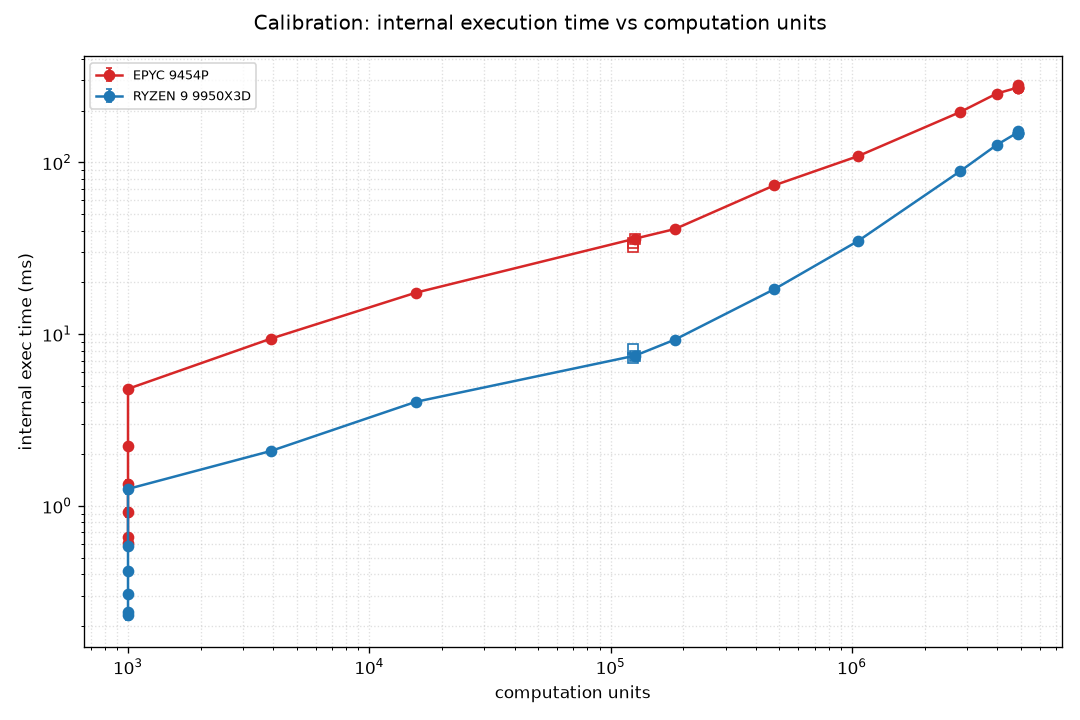
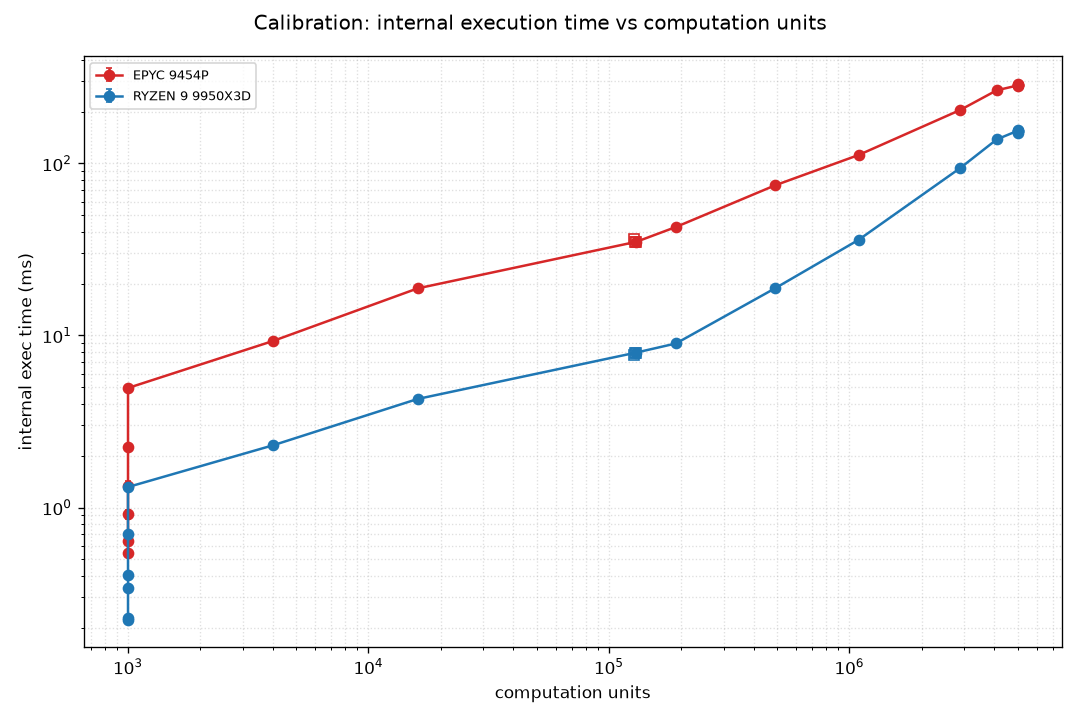
feat(h2): rewrite calibration with true per-transaction CU + add total tx count sizing

diff --git a/stress-attestation-sequencer/h2/make_calibration_table.py b/stress-attestation-sequencer/h2/make_calibration_table.py
@@ -14,6 +14,14 @@ HERE = os.path.dirname(os.path.abspath(__file__))
 RES = os.path.join(HERE, "results")
 OUT = os.path.join(RES, "calibration-tables.md")
 
+# Production runs TotalTxCount with these per-object, per-commit limits (config
+# keys max_accumulated_txn_cost_per_object_in_mysticeti_commit and
+# max_congestion_limit_overshoot_per_commit), counting each transaction as 1
+# regardless of cost. Under TotalComputationUnits the same base/overshoot become
+# CU limits scaled by the per-transaction cost — the mapping table below.
+BASE_TXNS = 10
+OVERSHOOT_TXNS = 100
+
 
 def label_from(path):
     """calibration-<cpu-slug>.csv -> machine label (e.g. 'EPYC 9454P')."""
@@ -67,14 +75,29 @@ if len(present) == 2:
     for k in keys:
         a, b = A[k], B[k]
         ea, eb = float(a["exec_mean_ms"]), float(b["exec_mean_ms"])
-        # CU is machine-independent; at the ceiling the pooled mean is pulled DOWN
-        # by aborted-tx windows catching tiny setup txs, so take the max across
-        # machines as the true (cap) value.
+        # CU is machine-independent and measured exactly per transaction, so both
+        # machines report the same value; max() is just defensive against a stale
+        # CSV.
         true_cu = max(float(a["actual_cu"]), float(b["actual_cu"]))
         lines.append(
             f"| {int(a['product']):,} | {k[0]}×{k[1]} | {cu(true_cu)} | "
             f"{ea:.3f} | {eb:.3f} | {eb / ea:.2f} |"
         )
+
+# TotalTxCount -> TotalComputationUnits limit mapping (machine-independent: CU
+# is protocol-defined). Each distinct per-tx CU maps the production count limits
+# to CU limits — base = BASE_TXNS × CU, overshoot = OVERSHOOT_TXNS × CU.
+cu_values = sorted({float(r["actual_cu"]) for _, rows in present for r in rows})
+lines.append(
+    f"\n## TotalTxCount (base {BASE_TXNS}, overshoot {OVERSHOOT_TXNS}) "
+    "→ TotalComputationUnits limits\n"
+)
+lines.append(
+    f"| CU per tx | base limit (×{BASE_TXNS}) | overshoot (×{OVERSHOOT_TXNS}) |"
+)
+lines.append("| --- | --- | --- |")
+for v in cu_values:
+    lines.append(f"| {cu(v)} | {cu(v * BASE_TXNS)} | {cu(v * OVERSHOOT_TXNS)} |")
 
 with open(OUT, "w") as f:
     f.write("\n".join(lines) + "\n")

diff --git a/stress-attestation-sequencer/h2/plot_calibration.py b/stress-attestation-sequencer/h2/plot_calibration.py
@@ -99,7 +99,7 @@ ax_cu.axhline(5_000_000, ls=":", color="crimson", lw=1)
 ax_cu.text(
     120,
     5.3e6,
-    "computation cap = 5M (CU flatlines below it)",
+    "gas-budget cap = 5M CU (out-of-gas abort)",
     color="crimson",
     fontsize=8,
 )

diff --git a/stress-attestation-sequencer/h2/probe-test.md b/stress-attestation-sequencer/h2/probe-test.md
@@ -7,8 +7,10 @@ The probe (`probe.sh`, swept by `probe_sweep.sh`) characterizes one
 post-consensus execution) and the internal Move-VM execution time. The
 workload is the owned-object slow variant (W4 in `../stress-plan.md`), so for
 this workload, both attested and actual computation units should match, since
-no state can change between the dry-run and execution; how these numbers feed
-the H2 mode comparison is described in `README.md`.
+no state can change between the dry-run and execution. What these numbers are
+*for* — sizing the `TotalComputationUnits` congestion limit for the H2 mode
+comparison — is worked out in *Sizing the `TotalComputationUnits` limit* below;
+`README.md` has the run plan.
 
 The sweep grid is a geometric ladder of the product `n × size` (`size` fixed at
 100, varying `n`, product 100 → 2M) plus a split-invariance check (product
@@ -34,8 +36,8 @@ point's measurement window:
 
 - **Computation units** — `attested_computation_units` /
   `actual_computation_units`, `Δ_sum / Δ_count`. Only attested user
-  transactions touch these histograms, and the workload is deterministic, so
-  the mean is the exact per-transaction value.
+  transactions touch these histograms; the workload is deterministic (100
+  identical transactions), so the mean is the exact per-transaction value.
 - **Internal execution time** —
   `authority_state_internal_execution_latency_user`, pure post-consensus
   execution, **user transactions only**. This histogram was added for the
@@ -44,9 +46,13 @@ point's measurement window:
   outnumber a low-rate workload ~30:1 and drag the mean toward their
   sub-millisecond cost.
 
-Every row below has exactly 412 samples: the point's 100 transactions executed
-on each of the 4 validators (400), plus the client's 3 setup transactions,
-likewise executed on all 4 validators.
+The measurement window is anchored at the exact instant spamming starts — the
+client prints that timestamp when its warmup ends — so the delta excludes
+the gas coin setup transactions, which run during warmup. Without this, the
+few cheap setup transactions (at the 1,000-CU floor) pool into the mean and
+bias it low. The client also waits 2 s between warmup and spamming so the
+baseline sits in a quiet gap. Every row below has exactly 400 samples: 100
+workload transactions executed on each of the 4 validators.
 
 ---
 
@@ -56,58 +62,58 @@ likewise executed on all 4 validators.
 
 | n | size | product | CU | exec mean (ms) | exec sem (ms) | samples |
 | --- | --- | --- | --- | --- | --- | --- |
-| 1 | 100 | 100 | 1,000 | 0.610 | 0.034 | 412 |
-| 2 | 100 | 200 | 1,000 | 0.654 | 0.016 | 412 |
-| 5 | 100 | 500 | 1,000 | 0.918 | 0.055 | 412 |
-| 10 | 100 | 1,000 | 1,000 | 1.339 | 0.081 | 412 |
-| 20 | 100 | 2,000 | 1,000 | 2.237 | 0.039 | 412 |
-| 50 | 100 | 5,000 | 1,000 | 4.797 | 0.108 | 412 |
-| 100 | 100 | 10,000 | 3,913 | 9.404 | 0.268 | 412 |
-| 200 | 100 | 20,000 | 15,563 | 17.399 | 0.437 | 412 |
-| 100 | 400 | 40,000 | 123,330 | 33.937 | 0.473 | 412 |
-| 200 | 200 | 40,000 | 124,301 | 32.288 | 0.516 | 412 |
-| 400 | 100 | 40,000 | 126,243 | 35.938 | 0.902 | 412 |
-| 500 | 100 | 50,000 | 184,495 | 40.862 | 0.909 | 412 |
-| 1000 | 100 | 100,000 | 476,728 | 73.439 | 0.994 | 412 |
-| 2000 | 100 | 200,000 | 1,060,223 | 108.637 | 3.278 | 412 |
-| 5000 | 100 | 500,000 | 2,810,709 | 196.266 | 3.288 | 412 |
-| 7000 | 100 | 700,000 | 3,977,699 | 251.242 | 5.208 | 412 |
-| 8500 | 100 | 850,000 | 4,854,398 | 272.078 | 5.483 | 412 |
-| 10000 | 100 | 1,000,000 | 4,854,398 | 273.460 | 5.430 | 412 |
-| 12000 | 100 | 1,200,000 | 4,854,398 | 269.867 | 5.785 | 412 |
-| 15000 | 100 | 1,500,000 | 4,854,398 | 271.866 | 5.489 | 412 |
-| 20000 | 100 | 2,000,000 | 4,854,398 | 283.513 | 5.051 | 412 |
+| 1 | 100 | 100 | 1,000 | 0.545 | 0.012 | 400 |
+| 2 | 100 | 200 | 1,000 | 0.637 | 0.010 | 400 |
+| 5 | 100 | 500 | 1,000 | 0.912 | 0.055 | 400 |
+| 10 | 100 | 1,000 | 1,000 | 1.342 | 0.083 | 400 |
+| 20 | 100 | 2,000 | 1,000 | 2.237 | 0.038 | 400 |
+| 50 | 100 | 5,000 | 1,000 | 4.951 | 0.108 | 400 |
+| 100 | 100 | 10,000 | 4,000 | 9.278 | 0.235 | 400 |
+| 200 | 100 | 20,000 | 16,000 | 18.776 | 0.478 | 400 |
+| 100 | 400 | 40,000 | 127,000 | 36.411 | 0.577 | 400 |
+| 200 | 200 | 40,000 | 128,000 | 35.137 | 0.543 | 400 |
+| 400 | 100 | 40,000 | 130,000 | 35.037 | 0.644 | 400 |
+| 500 | 100 | 50,000 | 190,000 | 42.726 | 0.865 | 400 |
+| 1000 | 100 | 100,000 | 491,000 | 74.615 | 0.805 | 400 |
+| 2000 | 100 | 200,000 | 1,092,000 | 111.961 | 3.071 | 400 |
+| 5000 | 100 | 500,000 | 2,895,000 | 204.800 | 3.125 | 400 |
+| 7000 | 100 | 700,000 | 4,097,000 | 266.155 | 5.098 | 400 |
+| 8500 | 100 | 850,000 | 5,000,000 | 283.822 | 4.588 | 400 |
+| 10000 | 100 | 1,000,000 | 5,000,000 | 282.936 | 4.620 | 400 |
+| 12000 | 100 | 1,200,000 | 5,000,000 | 287.358 | 4.410 | 400 |
+| 15000 | 100 | 1,500,000 | 5,000,000 | 285.204 | 4.679 | 400 |
+| 20000 | 100 | 2,000,000 | 5,000,000 | 287.840 | 4.665 | 400 |
 
 ### WS Ryzen 9 9950X3D
 
 | n | size | product | CU | exec mean (ms) | exec sem (ms) | samples |
 | --- | --- | --- | --- | --- | --- | --- |
-| 1 | 100 | 100 | 1,000 | 0.233 | 0.017 | 412 |
-| 2 | 100 | 200 | 1,000 | 0.242 | 0.002 | 412 |
-| 5 | 100 | 500 | 1,000 | 0.306 | 0.004 | 412 |
-| 10 | 100 | 1,000 | 1,000 | 0.415 | 0.010 | 412 |
-| 20 | 100 | 2,000 | 1,000 | 0.583 | 0.018 | 412 |
-| 50 | 100 | 5,000 | 1,000 | 1.254 | 0.075 | 412 |
-| 100 | 100 | 10,000 | 3,913 | 2.086 | 0.047 | 412 |
-| 200 | 100 | 20,000 | 15,563 | 4.030 | 0.089 | 412 |
-| 100 | 400 | 40,000 | 123,330 | 7.208 | 0.159 | 412 |
-| 200 | 200 | 40,000 | 124,301 | 8.214 | 0.222 | 412 |
-| 400 | 100 | 40,000 | 126,243 | 7.487 | 0.178 | 412 |
-| 500 | 100 | 50,000 | 184,495 | 9.275 | 0.236 | 412 |
-| 1000 | 100 | 100,000 | 476,728 | 18.247 | 0.309 | 412 |
-| 2000 | 100 | 200,000 | 1,060,223 | 34.826 | 0.409 | 412 |
-| 5000 | 100 | 500,000 | 2,810,709 | 88.812 | 2.141 | 412 |
-| 7000 | 100 | 700,000 | 3,977,699 | 126.158 | 2.596 | 412 |
-| 8500 | 100 | 850,000 | 4,854,398 | 148.915 | 1.778 | 412 |
-| 10000 | 100 | 1,000,000 | 4,854,398 | 146.229 | 1.938 | 412 |
-| 12000 | 100 | 1,200,000 | 4,854,398 | 151.727 | 1.702 | 412 |
-| 15000 | 100 | 1,500,000 | 4,854,398 | 148.533 | 1.790 | 412 |
-| 20000 | 100 | 2,000,000 | 4,854,398 | 148.998 | 1.776 | 412 |
+| 1 | 100 | 100 | 1,000 | 0.227 | 0.001 | 400 |
+| 2 | 100 | 200 | 1,000 | 0.223 | 0.001 | 400 |
+| 5 | 100 | 500 | 1,000 | 0.340 | 0.006 | 400 |
+| 10 | 100 | 1,000 | 1,000 | 0.403 | 0.009 | 400 |
+| 20 | 100 | 2,000 | 1,000 | 0.700 | 0.017 | 400 |
+| 50 | 100 | 5,000 | 1,000 | 1.315 | 0.074 | 400 |
+| 100 | 100 | 10,000 | 4,000 | 2.297 | 0.035 | 400 |
+| 200 | 100 | 20,000 | 16,000 | 4.274 | 0.090 | 400 |
+| 100 | 400 | 40,000 | 127,000 | 7.650 | 0.172 | 400 |
+| 200 | 200 | 40,000 | 128,000 | 7.923 | 0.190 | 400 |
+| 400 | 100 | 40,000 | 130,000 | 7.957 | 0.198 | 400 |
+| 500 | 100 | 50,000 | 190,000 | 8.987 | 0.194 | 400 |
+| 1000 | 100 | 100,000 | 491,000 | 18.813 | 0.319 | 400 |
+| 2000 | 100 | 200,000 | 1,092,000 | 35.973 | 0.302 | 400 |
+| 5000 | 100 | 500,000 | 2,895,000 | 94.244 | 2.112 | 400 |
+| 7000 | 100 | 700,000 | 4,097,000 | 137.892 | 1.855 | 400 |
+| 8500 | 100 | 850,000 | 5,000,000 | 154.762 | 1.012 | 400 |
+| 10000 | 100 | 1,000,000 | 5,000,000 | 154.992 | 1.000 | 400 |
+| 12000 | 100 | 1,200,000 | 5,000,000 | 156.435 | 0.928 | 400 |
+| 15000 | 100 | 1,500,000 | 5,000,000 | 150.103 | 1.245 | 400 |
+| 20000 | 100 | 2,000,000 | 5,000,000 | 154.293 | 1.035 | 400 |
 
 > [!NOTE]
-> At the ceiling (product ≥ 850k), every transaction aborts out-of-gas at the
-> metering cap; the abort still costs the full execution time, which is what
-> the plateau rows measure.
+> At the ceiling (product ≥ 850k), every transaction exhausts its gas budget
+> and aborts out-of-gas; the abort still costs the full execution time, which
+> is what the plateau rows measure.
 
 ---
 
@@ -116,19 +122,21 @@ likewise executed on all 4 validators.
 **1. CUs sit at the floor, rise superlinearly, then hit a hard ceiling.** For
 product ≤ 5,000, every point bills at 1,000 — one `gas_rounding_step` — so
 light workloads are indistinguishable on computation cost. From product 10,000
-upward, CUs rise steeply (3,913 → 15,563 → … → 2,810,709 at product 500,000) —
+upward, CUs rise steeply (4,000 → 16,000 → … → 2,895,000 at product 500,000) —
 **up to cubic** between products 20k and 40k (×2 product → ×8 CU), flattening
-toward linear higher up. At the top, they hit a ceiling: product 700k → 3.98M,
-then 850k through 2M all pin at the *same* 4,854,398 — a five-point plateau.
-The metered CU flatlines just under the 5M `max_gas_computation_bucket`,
-because the VM computation budget is `min(gas_budget, 5M × gas_price)` — past
-≈850k product a transaction can't meter more, it caps (and aborts out-of-gas)
-at ≈4.85M. The wide, well-separated CU range below the ceiling is what gives
-the mode comparison distinct gas buckets to calibrate against.
+toward linear higher up. At the top, they hit a ceiling: product 700k →
+4,097,000, then 850k through 2M all pin at exactly 5,000,000 — a five-point
+plateau. That 5,000,000 is the transaction's gas budget in computation units
+(the 5-IOTA budget ÷ the 1,000 gas price): once the workload would meter more
+than the budget covers, the transaction aborts out-of-gas and is charged its
+full budget, so every over-budget point reports the identical figure. (It
+coincides with the 5M `max_gas_computation_bucket`, but the binding limit here
+is the gas budget.) The wide, well-separated CU range below the ceiling is what
+gives the mode comparison distinct gas buckets to calibrate against.
 
 **2. The product is the cost axis; the `n / size` split barely matters.** At
 product 40,000, the three splits (100×400, 200×200, 400×100) give CUs within
-2.4 % (123,330 / 124,301 / 126,243) and execution times within ≈11 % on both
+2.4 % (127,000 / 128,000 / 130,000) and execution times within ≈4 % on both
 machines. So `n × size` sets the cost; more vectors at equal product cost
 marginally more. This validates the product as the workload's single cost axis.
 
@@ -136,8 +144,8 @@ marginally more. This validates the product as the workload's single cost axis.
 
 *Top: computation units vs product — one curve, since CUs are
 machine-independent; the square markers are the product-40000 splits, which
-land on the curve; the top five points (850k–2M) flatten just under the 5M
-computation cap (red). Bottom: internal execution time vs product, per machine
+land on the curve; the top five points (850k–2M) sit exactly on the 5M
+gas-budget cap (red). Bottom: internal execution time vs product, per machine
 (both to product 2M).*
 
 **3. CUs are machine-independent; execution time is not.** Every CU matches to
@@ -147,73 +155,106 @@ Move-VM cost, so it tracks per-core performance:
 
 | product | n×size | CU | EPYC exec (ms) | WS exec (ms) | WS/EPYC |
 | --- | --- | --- | --- | --- | --- |
-| 100 | 1×100 | 1,000 | 0.610 | 0.233 | 0.38 |
-| 200 | 2×100 | 1,000 | 0.654 | 0.242 | 0.37 |
-| 500 | 5×100 | 1,000 | 0.918 | 0.306 | 0.33 |
-| 1,000 | 10×100 | 1,000 | 1.339 | 0.415 | 0.31 |
-| 2,000 | 20×100 | 1,000 | 2.237 | 0.583 | 0.26 |
-| 5,000 | 50×100 | 1,000 | 4.797 | 1.254 | 0.26 |
-| 10,000 | 100×100 | 3,913 | 9.404 | 2.086 | 0.22 |
-| 20,000 | 200×100 | 15,563 | 17.399 | 4.030 | 0.23 |
-| 40,000 | 100×400 | 123,330 | 33.937 | 7.208 | 0.21 |
-| 40,000 | 200×200 | 124,301 | 32.288 | 8.214 | 0.25 |
-| 40,000 | 400×100 | 126,243 | 35.938 | 7.487 | 0.21 |
-| 50,000 | 500×100 | 184,495 | 40.862 | 9.275 | 0.23 |
-| 100,000 | 1000×100 | 476,728 | 73.439 | 18.247 | 0.25 |
-| 200,000 | 2000×100 | 1,060,223 | 108.637 | 34.826 | 0.32 |
-| 500,000 | 5000×100 | 2,810,709 | 196.266 | 88.812 | 0.45 |
-| 700,000 | 7000×100 | 3,977,699 | 251.242 | 126.158 | 0.50 |
-| 850,000 | 8500×100 | 4,854,398 | 272.078 | 148.915 | 0.55 |
-| 1,000,000 | 10000×100 | 4,854,398 | 273.460 | 146.229 | 0.53 |
-| 1,200,000 | 12000×100 | 4,854,398 | 269.867 | 151.727 | 0.56 |
-| 1,500,000 | 15000×100 | 4,854,398 | 271.866 | 148.533 | 0.55 |
-| 2,000,000 | 20000×100 | 4,854,398 | 283.513 | 148.998 | 0.53 |
+| 100 | 1×100 | 1,000 | 0.545 | 0.227 | 0.42 |
+| 200 | 2×100 | 1,000 | 0.637 | 0.223 | 0.35 |
+| 500 | 5×100 | 1,000 | 0.912 | 0.340 | 0.37 |
+| 1,000 | 10×100 | 1,000 | 1.342 | 0.403 | 0.30 |
+| 2,000 | 20×100 | 1,000 | 2.237 | 0.700 | 0.31 |
+| 5,000 | 50×100 | 1,000 | 4.951 | 1.315 | 0.27 |
+| 10,000 | 100×100 | 4,000 | 9.278 | 2.297 | 0.25 |
+| 20,000 | 200×100 | 16,000 | 18.776 | 4.274 | 0.23 |
+| 40,000 | 100×400 | 127,000 | 36.411 | 7.650 | 0.21 |
+| 40,000 | 200×200 | 128,000 | 35.137 | 7.923 | 0.23 |
+| 40,000 | 400×100 | 130,000 | 35.037 | 7.957 | 0.23 |
+| 50,000 | 500×100 | 190,000 | 42.726 | 8.987 | 0.21 |
+| 100,000 | 1000×100 | 491,000 | 74.615 | 18.813 | 0.25 |
+| 200,000 | 2000×100 | 1,092,000 | 111.961 | 35.973 | 0.32 |
+| 500,000 | 5000×100 | 2,895,000 | 204.800 | 94.244 | 0.46 |
+| 700,000 | 7000×100 | 4,097,000 | 266.155 | 137.892 | 0.52 |
+| 850,000 | 8500×100 | 5,000,000 | 283.822 | 154.762 | 0.55 |
+| 1,000,000 | 10000×100 | 5,000,000 | 282.936 | 154.992 | 0.55 |
+| 1,200,000 | 12000×100 | 5,000,000 | 287.358 | 156.435 | 0.54 |
+| 1,500,000 | 15000×100 | 5,000,000 | 285.204 | 150.103 | 0.53 |
+| 2,000,000 | 20000×100 | 5,000,000 | 287.840 | 154.293 | 0.54 |
 
 The WS runs 1.8–4.8× faster per transaction, and the ratio is U-shaped rather
 than flat:
 
-- **Fixed-overhead floor** (product ≤ 1,000): ratio ≈ 0.31–0.38 (WS ≈2.6–3.2×
+- **Fixed-overhead floor** (product ≤ 2,000): ratio ≈ 0.30–0.42 (WS ≈2.4–3.3×
   faster). Execution here is mostly per-transaction overhead (≈0.23 ms WS vs
-  ≈0.61 ms EPYC).
+  ≈0.55 ms EPYC).
 - **Compute-bound middle** (product 10k–100k): ratio dips to ≈ 0.21–0.25 (WS
   ≈4–4.8× faster). Raw Move-VM compute dominates and the WS's higher clock,
   newer core, and 3D V-Cache win big — well beyond the ≈1.5× clock ratio alone.
-- **Large tail** (product ≥ 500k, CU ≥ 2.8M): ratio climbs back to ≈ 0.45–0.56
+- **Large tail** (product ≥ 500k, CU ≥ 2.9M): ratio climbs back to ≈ 0.46–0.55
   (WS ≈1.8–2.2× faster). Consistent with the working set outgrowing cache and
   the tail becoming memory-bandwidth bound, where the EPYC's many-channel
   server memory competes better and offsets the WS's clock edge. (The U-shape
   is solid; the mechanism is inference.)
 
-At the ceiling both machines are flat and clean: WS ≈146–152 ms, EPYC
-≈270–284 ms across all five plateau points.
+At the ceiling, both machines are flat and clean: WS ≈150–156 ms, EPYC
+≈283–288 ms across all five plateau points.
 
 ![Execution time vs CUs](results/summary_plots/exec_vs_cu.png)
 
 *Internal execution time vs computation units, per machine. The vertical
 cluster at CU = 1,000 is the gas-rounding floor: execution time still rises
 with the real work (the product) while the billed CU stays pinned at the floor.
-The points piled at CU ≈ 4.85M are the ceiling plateau.*
-
-**4. At ceiling costs, even 5 QPS is heavy load for the attested submit path.**
-A byproduct of getting the probe reliable, relevant to the H2/H3 experiment
-design. With attestation on, every submitted transaction is executed *twice or
-more* on the network's critical path: a full pre-consensus dry-run on the
-receiving validator (`attest_transaction`, ≈ the same cost as execution), the
-post-consensus execution on every validator, and — when the client waits on a
-fullnode — once more during checkpoint replay. At the ceiling that chain is
-≈1.5–2 s per transaction on the EPYC, and a closed-loop client whose
-back-pressure is a small in-flight budget silently under-delivers once
-responses cross its threshold (delivery collapsed to 0–75 of 100 transactions
-before the probe moved to direct-to-validator submission, which removes the
-fullnode from the response chain). Retries of a submission pay the attestation
-dry-run again — there is no attestation cache by digest — so an overloaded
-submit path attracts *more* attestation work. For the mode-comparison runs
-this means: heavy-CU workloads stress the attested path at rates that look
-trivially low on paper, and client throughput must be read together with
-delivery counts, never assumed from the target rate.
+The points piled at CU = 5M are the ceiling plateau.*
 
 The takeaway for cross-machine reading: computation units transfer exactly, but
-per-transaction latency does not. The EPYC's strength is core count (48c) for
-parallel throughput, not per-transaction speed — so it lags the high-clock desktop on
-anything gated on single-transaction execution, by 2× at the ceiling and up to
-almost 5× in the compute-bound middle of the range.
+per-transaction execution time does not. The EPYC's strength is core count
+(48c) for parallel throughput, not per-transaction speed — so it lags the
+high-clock desktop on anything gated on single-transaction execution,
+by ≈1.8× at the ceiling and up to ≈4.8× in the compute-bound middle of the
+range.
+
+---
+
+## Sizing the `TotalComputationUnits` limit
+
+This is what the calibration is for. Production runs per-object congestion
+control in `TotalTxCount` mode with a base limit of 10 and an overshoot of 100
+per object per commit (`max_accumulated_txn_cost_per_object_in_mysticeti_commit`
+= 10, `max_congestion_limit_overshoot_per_commit` = 100). That mode counts every
+transaction as 1, blind to cost: a per-object commit admits the same 10 (+100
+burst) transactions whether each costs 1,000 CU or 5,000,000 CU — a 5,000×
+spread in real work behind an identical count.
+
+`TotalComputationUnits` removes that blindness by limiting on attested cost
+instead of count. The question H2 answers is which CU limit to give it. Mapping
+today's count limits onto the CU scale means multiplying by the per-transaction
+cost — but the calibration shows that cost spans 1,000 → 5,000,000 CU, so the
+equivalent limit spans the same 5,000×:
+
+| CU per tx | base limit (×10) | overshoot (×100) |
+| --- | --- | --- |
+| 1,000 | 10,000 | 100,000 |
+| 4,000 | 40,000 | 400,000 |
+| 16,000 | 160,000 | 1,600,000 |
+| 127,000 | 1,270,000 | 12,700,000 |
+| 128,000 | 1,280,000 | 12,800,000 |
+| 130,000 | 1,300,000 | 13,000,000 |
+| 190,000 | 1,900,000 | 19,000,000 |
+| 491,000 | 4,910,000 | 49,100,000 |
+| 1,092,000 | 10,920,000 | 109,200,000 |
+| 2,895,000 | 28,950,000 | 289,500,000 |
+| 4,097,000 | 40,970,000 | 409,700,000 |
+| 5,000,000 | 50,000,000 | 500,000,000 |
+
+The two ends of that range are the bounds, and both are bad:
+
+- **Lower bound** — size the limit for all-light traffic (1,000 CU): base
+  10,000, overshoot 100,000 CU. But 10,000 CU is smaller than a single heavy
+  transaction (5,000,000 CU), so not even one heavy transaction fits per object
+  per commit — heavy traffic is deferred indefinitely.
+- **Upper bound** — size it for all-heavy traffic (5,000,000 CU): base
+  50,000,000, overshoot 500,000,000 CU. That admits 50,000 light transactions
+  (1,000 CU each) per object per commit — 5,000× today's 10, i.e. effectively
+  no throttling of light traffic.
+
+So the workable limit sits between, and where exactly depends on the workload
+mix. Choosing and justifying it is the H2 mode comparison: run `TotalTxCount`
+(base 10, overshoot 100) against `TotalComputationUnits` at candidate CU limits
+from this range, on W1 (shared-counter, uniform light cost) and W5 (slow,
+variable cost), and compare throughput, latency, and per-object deferral.
